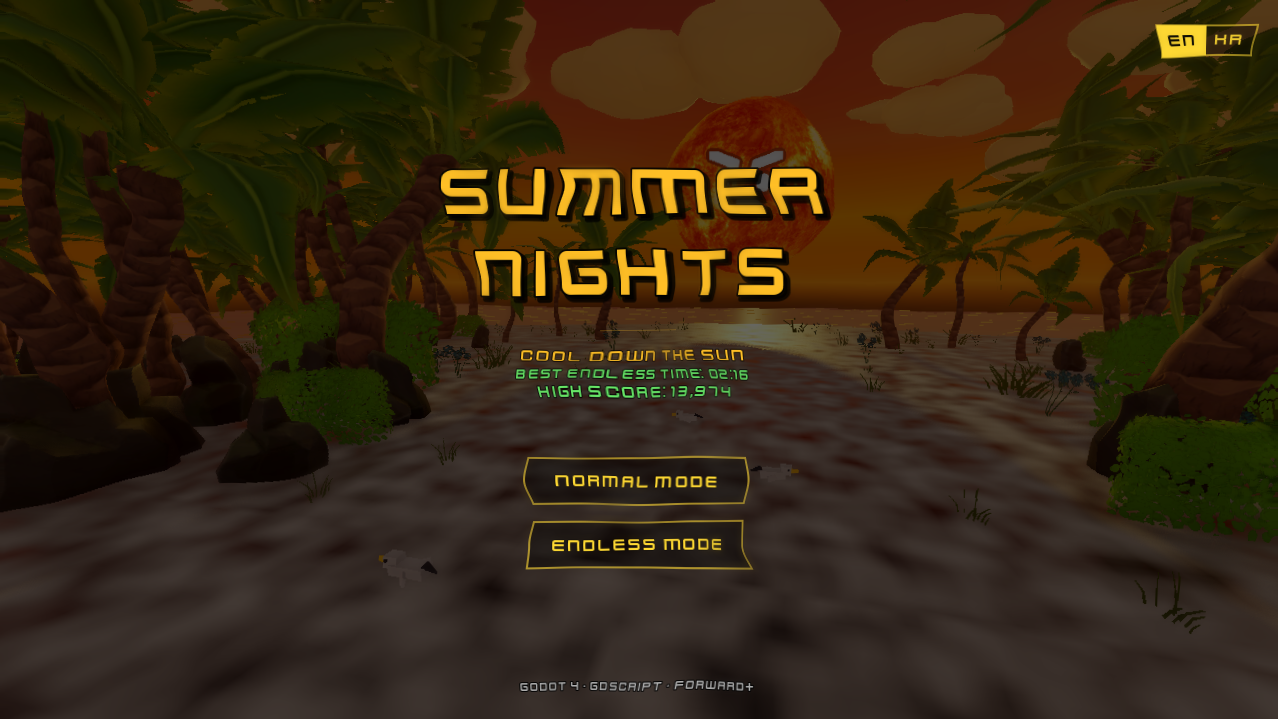
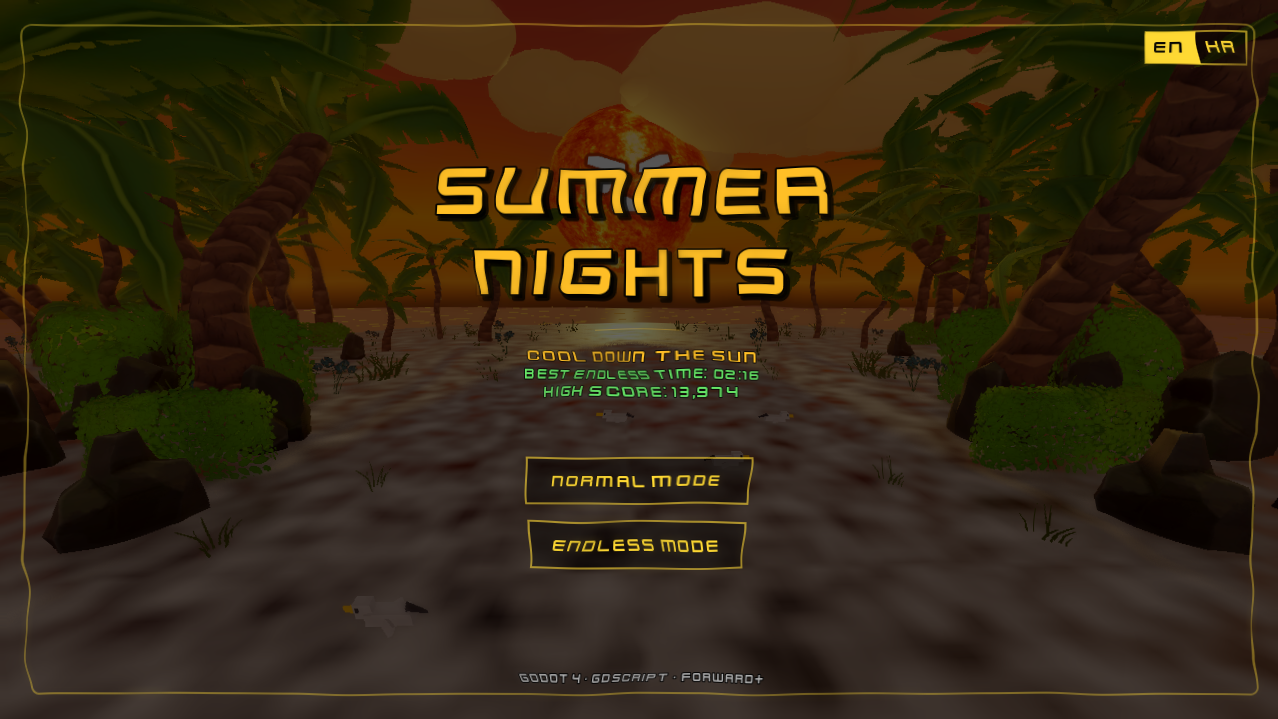
Update README screenshots with final polished Title and Pause menus (EN/KR)

diff --git a/README.md b/README.md
@@ -25,7 +25,7 @@ A 3D arcade shooter built in Godot 4. Cool down the Sun before the heat overwhel
   <img src="screenshots/10_Weather.png" width="48%">
   <br>
   <img src="screenshots/05_Weather_Solar_Wind.png" width="48%">
-  <img src="screenshots/07_Settings_Menu.png" width="48%">
+  <img src="screenshots/06_Pause_Screen_EN.png" width="48%">
 </p>
 
 ---
